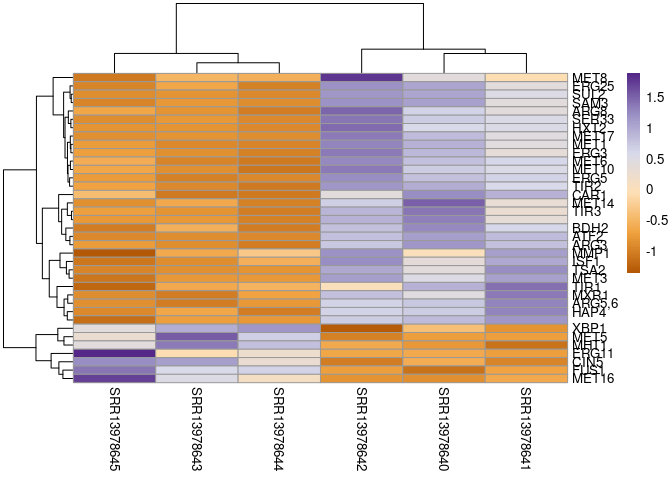
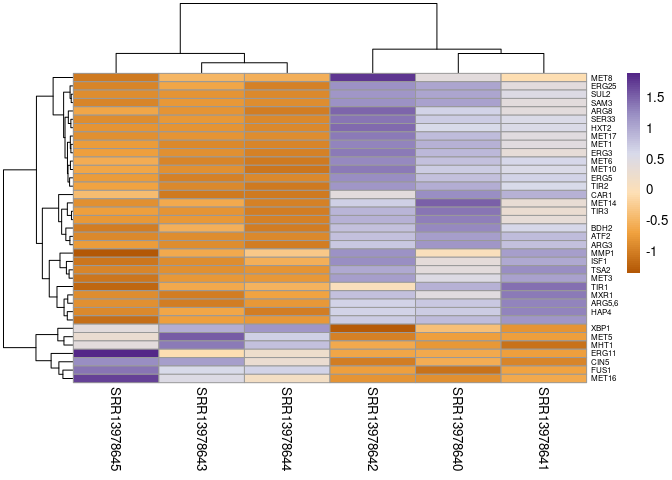
Converted the DESeq.R script to README.rmd and put that in the main directory, closes #1

diff --git a/README.md b/README.md
@@ -101,19 +101,19 @@ df <- featureCounts(files = c("data/output/SRR13978640.aln/SRR13978640Aligned.so
     ## ||    Paired-end reads are included.                                          ||
     ## ||    Total alignments : 3294536                                              ||
     ## ||    Successfully assigned alignments : 2310619 (70.1%)                      ||
-    ## ||    Running time : 0.13 minutes                                             ||
+    ## ||    Running time : 0.14 minutes                                             ||
     ## ||                                                                            ||
     ## || Process BAM file SRR13978641Aligned.sortedByCoord.out.bam...               ||
     ## ||    Paired-end reads are included.                                          ||
     ## ||    Total alignments : 2667430                                              ||
     ## ||    Successfully assigned alignments : 2045225 (76.7%)                      ||
-    ## ||    Running time : 0.10 minutes                                             ||
+    ## ||    Running time : 0.11 minutes                                             ||
     ## ||                                                                            ||
     ## || Process BAM file SRR13978642Aligned.sortedByCoord.out.bam...               ||
     ## ||    Paired-end reads are included.                                          ||
     ## ||    Total alignments : 5981649                                              ||
     ## ||    Successfully assigned alignments : 2887042 (48.3%)                      ||
-    ## ||    Running time : 0.70 minutes                                             ||
+    ## ||    Running time : 0.65 minutes                                             ||
     ## ||                                                                            ||
     ## || Process BAM file SRR13978643Aligned.sortedByCoord.out.bam...               ||
     ## ||    Paired-end reads are included.                                          ||
@@ -468,123 +468,30 @@ bm_res_sig <- getBM(attributes = bm_attr,
                 filters = c("ensembl_gene_id"), 
                 values = gene_ids_sig, mart = bio.mart)
 
-bm_res_sig
+head(bm_res_sig)
 ```
 
-    ##    ensembl_gene_id external_gene_name chromosome_name start_position
-    ## 1          YAL061W               BDH2               I          33448
-    ## 2          YBR213W               MET8              II         650368
-    ## 3          YCL027W               FUS1             III          71803
-    ## 4          YDR453C               TSA2              IV        1365072
-    ## 5          YER011W               TIR1               V         175248
-    ## 6          YER042W               MXR1               V         234937
-    ## 7          YER069W             ARG5,6               V         295410
-    ## 8          YER091C               MET6               V         339864
-    ## 9          YFR030W              MET10              VI         213312
-    ## 10         YGR060W              ERG25             VII         610564
-    ## 11         YGR177C               ATF2             VII         848829
-    ## 12         YHR007C              ERG11            VIII         120091
-    ## 13         YIL011W               TIR3              IX         333727
-    ## 14         YIL074C              SER33              IX         221081
-    ## 15         YIL101C               XBP1              IX         175307
-    ## 16         YJL088W               ARG3               X         268799
-    ## 17         YJR010W               MET3               X         456239
-    ## 18         YJR137C               MET5               X         678957
-    ## 19         YKL001C              MET14              XI         438777
-    ## 20       YKL068W-A                                 XI         309206
-    ## 21         YKL109W               HAP4              XI         232227
-    ## 22         YKR069W               MET1              XI         571612
-    ## 23         YLL061W               MMP1             XII          17956
-    ## 24         YLL062C               MHT1             XII          16639
-    ## 25         YLR056W               ERG3             XII         253861
-    ## 26         YLR092W               SUL2             XII         323544
-    ## 27         YLR303W              MET17             XII         732542
-    ## 28         YML018C                               XIII         234771
-    ## 29         YMR011W               HXT2            XIII         288079
-    ## 30         YMR015C               ERG5            XIII         300869
-    ## 31         YMR081C               ISF1            XIII         430079
-    ## 32         YOL140W               ARG8              XV          58759
-    ## 33         YOR010C               TIR2              XV         346195
-    ## 34         YOR028C               CIN5              XV         383533
-    ## 35         YPL111W               CAR1             XVI         339944
-    ## 36         YPL274W               SAM3             XVI          22938
-    ## 37         YPR167C              MET16             XVI         876847
-    ##    end_position
-    ## 1         34701
-    ## 2        651192
-    ## 3         73341
-    ## 4       1365662
-    ## 5        176012
-    ## 6        235491
-    ## 7        298001
-    ## 8        342167
-    ## 9        216419
-    ## 10       611493
-    ## 11       850436
-    ## 12       121683
-    ## 13       334536
-    ## 14       222490
-    ## 15       177250
-    ## 16       269815
-    ## 17       457774
-    ## 18       683285
-    ## 19       439385
-    ## 20       309442
-    ## 21       233891
-    ## 22       573393
-    ## 23        19707
-    ## 24        17613
-    ## 25       254958
-    ## 26       326225
-    ## 27       733876
-    ## 28       235952
-    ## 29       289704
-    ## 30       302485
-    ## 31       431095
-    ## 32        60030
-    ## 33       346950
-    ## 34       384420
-    ## 35       340945
-    ## 36        24701
-    ## 37       877632
-    ##                                                                                                                                                                                                                                                                                                                                                                                                                                                                                                                    description
-    ## 1                                                                                                                                                                                                                                                                                                                                                                Putative medium-chain alcohol dehydrogenase with similarity to BDH1; transcription induced by constitutively active PDR1 and PDR3 [Source:SGD;Acc:S000000057]
-    ## 2                                                                                                                                                                                                                                                                                             Bifunctional dehydrogenase and ferrochelatase; involved in the biosynthesis of siroheme, a prosthetic group used by sulfite reductase; required for sulfate assimilation and methionine biosynthesis [Source:SGD;Acc:S000000417]
-    ## 3                                                                                                                                                                                                                                                               Membrane protein localized to the shmoo tip; required for cell fusion; expression regulated by mating pheromone; proposed to coordinate signaling, fusion, and polarization events required for fusion; potential Cdc28p substrate [Source:SGD;Acc:S000000532]
-    ## 4                                                                                                                Stress inducible cytoplasmic thioredoxin peroxidase; cooperates with Tsa1p in the removal of reactive oxygen, nitrogen and sulfur species using thioredoxin as hydrogen donor; deletion enhances the mutator phenotype of tsa1 mutants; protein abundance increases in response to DNA replication stress; TSA2 has a paralog, TSA1, that arose from the whole genome duplication [Source:SGD;Acc:S000002861]
-    ## 5                                                                                                                                                                                                                                                          Cell wall mannoprotein; expression is downregulated at acidic pH and induced by cold shock and anaerobiosis; abundance is increased in cells cultured without shaking; member of the Srp1p/Tip1p family of serine-alanine-rich proteins [Source:SGD;Acc:S000000813]
-    ## 6                                                                                                                                                                                                                             Methionine-S-sulfoxide reductase; involved in the response to oxidative stress; protects iron-sulfur clusters from oxidative inactivation along with MXR2; involved in the regulation of lifespan; reduced activity of human homolog implicated in Alzheimer disease [Source:SGD;Acc:S000000844]
-    ## 7  Acetylglutamate kinase and N-acetyl-gamma-glutamyl-phosphate reductase; N-acetyl-L-glutamate kinase (NAGK) catalyzes the 2nd and N-acetyl-gamma-glutamyl-phosphate reductase (NAGSA), the 3rd step in arginine biosynthesis; synthesized as a precursor which is processed in the mitochondrion to yield mature NAGK and NAGSA; enzymes form a metabolon complex with Arg2p; NAGK C-terminal domain stabilizes the enzymes, slows catalysis and is involved in feed-back inhibition by arginine [Source:SGD;Acc:S000000871]
-    ## 8                                                                                                                                                                                                                                                                                Cobalamin-independent methionine synthase; involved in methionine biosynthesis and regeneration; requires a minimum of two glutamates on the methyltetrahydrofolate substrate, similar to bacterial metE homologs [Source:SGD;Acc:S000000893]
-    ## 9                                                                                                                                                                                                                                                                                                                                                                                                           Subunit alpha of assimilatory sulfite reductase; complex converts sulfite into sulfide [Source:SGD;Acc:S000001926]
-    ## 10                                                                                                                                                                      C-4 methyl sterol oxidase; catalyzes the first of three steps required to remove two C-4 methyl groups from an intermediate in ergosterol biosynthesis; mutants accumulate the sterol intermediate 4,4-dimethylzymosterol; human MSMO1 functionally complements the growth defect caused by repression of ERG25 expression [Source:SGD;Acc:S000003292]
-    ## 11                                                                                                                                                                                                                                                                                                                                  Alcohol acetyltransferase; may play a role in steroid detoxification; forms volatile esters during fermentation, which is important for brewing and winemaking [Source:SGD;Acc:S000003409]
-    ## 12                                                                  Lanosterol 14-alpha-demethylase; catalyzes C-14 demethylation of lanosterol to form 4,4''-dimethyl cholesta-8,14,24-triene-3-beta-ol in ergosterol biosynthesis pathway; transcriptionally down-regulated when ergosterol is in excess; member of cytochrome P450 family; associated and coordinately regulated with the P450 reductase Ncp1p; human CYP51A1 functionally complements the lethality of the erg11 null mutation [Source:SGD;Acc:S000001049]
-    ## 13                                                                                                                                                                                                                                                            Cell wall mannoprotein; member of Srp1p/Tip1p family of serine-alanine-rich proteins; expressed under anaerobic conditions and required for anaerobic growth; TIR3 has a paralog, TIR2, that arose from the whole genome duplication [Source:SGD;Acc:S000001273]
-    ## 14                                                                                                                 3-phosphoglycerate dehydrogenase and alpha-ketoglutarate reductase; 3PG dehydrogenase that catalyzes the first step in serine and glycine biosynthesis; also functions as an alpha-ketoglutarate reductase, converting alpha-ketoglutarate to D-2-hydroxyglutarate (D-2HG); localizes to the cytoplasm; SER33 has a paralog, SER3, that arose from the whole genome duplication [Source:SGD;Acc:S000001336]
-    ## 15            Transcriptional repressor; binds promoter sequences of cyclin genes, CYS3, and SMF2; not expressed during log phase of growth, but induced by stress or starvation during mitosis, and late in meiosis; represses 15% of all yeast genes as cells transition to quiescence; important for maintaining G1 arrest and for longevity of quiescent cells; member of Swi4p/Mbp1p family; phosphorylated by Cdc28p; relative distribution to nucleus increases upon DNA replication stress [Source:SGD;Acc:S000001363]
-    ## 16                                                                                                                                                                                                                                                                                                                              Ornithine carbamoyltransferase; also known as carbamoylphosphate:L-ornithine carbamoyltransferase; catalyzes the biosynthesis of the arginine precursor citrulline [Source:SGD;Acc:S000003624]
-    ## 17                                                                                                                                                                                                                                                              ATP sulfurylase; catalyzes the primary step of intracellular sulfate activation, essential for assimilatory reduction of sulfate to sulfide, involved in methionine metabolism; human homolog PAPSS2 complements yeast null mutant [Source:SGD;Acc:S000003771]
-    ## 18                                                                                                                                                                                                                                                                                                                                                                                      Sulfite reductase beta subunit; involved in amino acid biosynthesis, transcription repressed by methionine [Source:SGD;Acc:S000003898]
-    ## 19                                                                                                                                                                                                                                                                                                                                             Adenylylsulfate kinase; required for sulfate assimilation and involved in methionine metabolism; human homolog PAPSS2 complements yeast null mutant [Source:SGD;Acc:S000001484]
-    ## 20                                                                                                                                                                                                                                                                                                                                                                                                                 Putative protein of unknown function; identified by homology to Ashbya gossypii [Source:SGD;Acc:S000028524]
-    ## 21                                                                                                                                                                                                              Transcription factor; subunit of the heme-activated, glucose-repressed Hap2p/3p/4p/5p CCAAT-binding complex, a transcriptional activator and global regulator of respiratory gene expression; provides the principal activation function of the complex; involved in diauxic shift [Source:SGD;Acc:S000001592]
-    ## 22                                                                                                                                                                                                                                                                              S-adenosyl-L-methionine uroporphyrinogen III transmethylase; involved in the biosynthesis of siroheme, a prosthetic group used by sulfite reductase; required for sulfate assimilation and methionine biosynthesis [Source:SGD;Acc:S000001777]
-    ## 23                                                                                                                                                                                                                                                                                                                             High-affinity S-methylmethionine permease; required for utilization of S-methylmethionine as a sulfur source; has similarity to S-adenosylmethionine permease Sam3p [Source:SGD;Acc:S000003984]
-    ## 24                                                                                                                                                                                                                                                                                                           S-methylmethionine-homocysteine methyltransferase; functions along with Sam4p in the conversion of S-adenosylmethionine (AdoMet) to methionine to control the methionine/AdoMet ratio [Source:SGD;Acc:S000003985]
-    ## 25                                                                                                                C-5 sterol desaturase; glycoprotein that catalyzes the introduction of a C-5(6) double bond into episterol, a precursor in ergosterol biosynthesis; transcriptionally down-regulated when ergosterol is in excess; mutants are viable, but cannot grow on non-fermentable carbon sources; substrate of HRD ubiquitin ligase; mutation is functionally complemented by human SC5D [Source:SGD;Acc:S000004046]
-    ## 26                                                                                                                                                                                                                                                                                                      High affinity sulfate permease; sulfate uptake is mediated by specific sulfate transporters Sul1p and Sul2p, which control the concentration of endogenous activated sulfate intermediates [Source:SGD;Acc:S000004082]
-    ## 27                                                                                                                                                                                                                                                                                                                                                                                            O-acetyl homoserine-O-acetyl serine sulfhydrylase; required for Methionine and cysteine biosynthesis [Source:SGD;Acc:S000004294]
-    ## 28                                                                                                Protein of unknown function; green fluorescent protein (GFP)-fusion protein localizes to the membrane of the vacuole; physical interaction with Atg27p suggests a possible role in autophagy; YML018C is not an essential gene; relative distribution to the vacuolar membrane decreases upon DNA replication stress; YML018C has a paralog, THI74, that arose from the whole genome duplication [Source:SGD;Acc:S000004480]
-    ## 29                                                                                                                                                                                                                                                                                                                                  High-affinity glucose transporter of the major facilitator superfamily; expression is induced by low levels of glucose and repressed by high levels of glucose [Source:SGD;Acc:S000004613]
-    ## 30                                                                                                                                                                                                                                                                                        C-22 sterol desaturase; a cytochrome P450 enzyme that catalyzes the formation of the C-22(23) double bond in the sterol side chain in ergosterol biosynthesis; may be a target of azole antifungal drugs [Source:SGD;Acc:S000004617]
-    ## 31                                                                                                                                                                                                                               Serine-rich, hydrophilic protein; overexpression suppresses growth defects of hap2, hap3, and hap4 mutants; expression is under glucose control; cotranscribed with NAM7 in a cyp1 mutant; ISF1 has a paralog, MBR1, that arose from the whole genome duplication [Source:SGD;Acc:S000004686]
-    ## 32                                                                                                                                                                                                                                                                                                                                                                             Acetylornithine aminotransferase; catalyzes the fourth step in the biosynthesis of the arginine precursor ornithine [Source:SGD;Acc:S000005500]
-    ## 33                                                                                                                                                                                                                                                              Putative cell wall mannoprotein; member of the Srp1p/Tip1p family of serine-alanine-rich proteins; transcription is induced by cold shock and anaerobiosis; TIR2 has a paralog, TIR3, that arose from the whole genome duplication [Source:SGD;Acc:S000005536]
-    ## 34                                                                                        Basic leucine zipper (bZIP) transcription factor of the yAP-1 family; physically interacts with the Tup1-Cyc8 complex and recruits Tup1p to its targets; mediates pleiotropic drug resistance and salt tolerance; nuclearly localized under oxidative stress and sequestered in the cytoplasm by Lot6p under reducing conditions; CIN5 has a paralog, YAP6, that arose from the whole genome duplication [Source:SGD;Acc:S000005554]
-    ## 35                                                                                                                                                                                                                           Arginase, catabolizes arginine to ornithine and urea; expression responds to both induction by arginine and nitrogen catabolite repression; disruption decreases production of carcinogen ethyl carbamate during wine fermentation and also enhances freeze tolerance [Source:SGD;Acc:S000006032]
-    ## 36                                                                                                                                                                                                                                                                                                                           High-affinity S-adenosylmethionine permease; required for utilization of S-adenosylmethionine as a sulfur source; has similarity to S-methylmethionine permease Mmp1p [Source:SGD;Acc:S000006195]
-    ## 37                                                                                                                                                                                                                                                                     3'-phosphoadenylsulfate reductase; reduces 3'-phosphoadenylyl sulfate to adenosine-3',5'-bisphosphate and free sulfite using reduced thioredoxin as cosubstrate, involved in sulfate assimilation and methionine metabolism [Source:SGD;Acc:S000006371]
+    ##   ensembl_gene_id external_gene_name chromosome_name start_position
+    ## 1         YAL061W               BDH2               I          33448
+    ## 2         YBR213W               MET8              II         650368
+    ## 3         YCL027W               FUS1             III          71803
+    ## 4         YDR453C               TSA2              IV        1365072
+    ## 5         YER011W               TIR1               V         175248
+    ## 6         YER042W               MXR1               V         234937
+    ##   end_position
+    ## 1        34701
+    ## 2       651192
+    ## 3        73341
+    ## 4      1365662
+    ## 5       176012
+    ## 6       235491
+    ##                                                                                                                                                                                                                                                                                                                                                                                                     description
+    ## 1                                                                                                                                                                                                                                                 Putative medium-chain alcohol dehydrogenase with similarity to BDH1; transcription induced by constitutively active PDR1 and PDR3 [Source:SGD;Acc:S000000057]
+    ## 2                                                                                                                                                                              Bifunctional dehydrogenase and ferrochelatase; involved in the biosynthesis of siroheme, a prosthetic group used by sulfite reductase; required for sulfate assimilation and methionine biosynthesis [Source:SGD;Acc:S000000417]
+    ## 3                                                                                                                                                Membrane protein localized to the shmoo tip; required for cell fusion; expression regulated by mating pheromone; proposed to coordinate signaling, fusion, and polarization events required for fusion; potential Cdc28p substrate [Source:SGD;Acc:S000000532]
+    ## 4 Stress inducible cytoplasmic thioredoxin peroxidase; cooperates with Tsa1p in the removal of reactive oxygen, nitrogen and sulfur species using thioredoxin as hydrogen donor; deletion enhances the mutator phenotype of tsa1 mutants; protein abundance increases in response to DNA replication stress; TSA2 has a paralog, TSA1, that arose from the whole genome duplication [Source:SGD;Acc:S000002861]
+    ## 5                                                                                                                                           Cell wall mannoprotein; expression is downregulated at acidic pH and induced by cold shock and anaerobiosis; abundance is increased in cells cultured without shaking; member of the Srp1p/Tip1p family of serine-alanine-rich proteins [Source:SGD;Acc:S000000813]
+    ## 6                                                                                                              Methionine-S-sulfoxide reductase; involved in the response to oxidative stress; protects iron-sulfur clusters from oxidative inactivation along with MXR2; involved in the regulation of lifespan; reduced activity of human homolog implicated in Alzheimer disease [Source:SGD;Acc:S000000844]
 
 #### Most significant Differentially Expressed Genes
 
@@ -620,7 +527,8 @@ pheatmap(mat = sig_matrix.z,
          labels_col = colnames(sig_matrix.z), 
          labels_row = rownames(sig_matrix.z),
          color = heat_colors,
-         height = 40)
+         fontsize_row = 6,
+         height = 60)
 ```
 
 ![](README_files/figure-gfm/heatmap-1.png)<!-- -->
